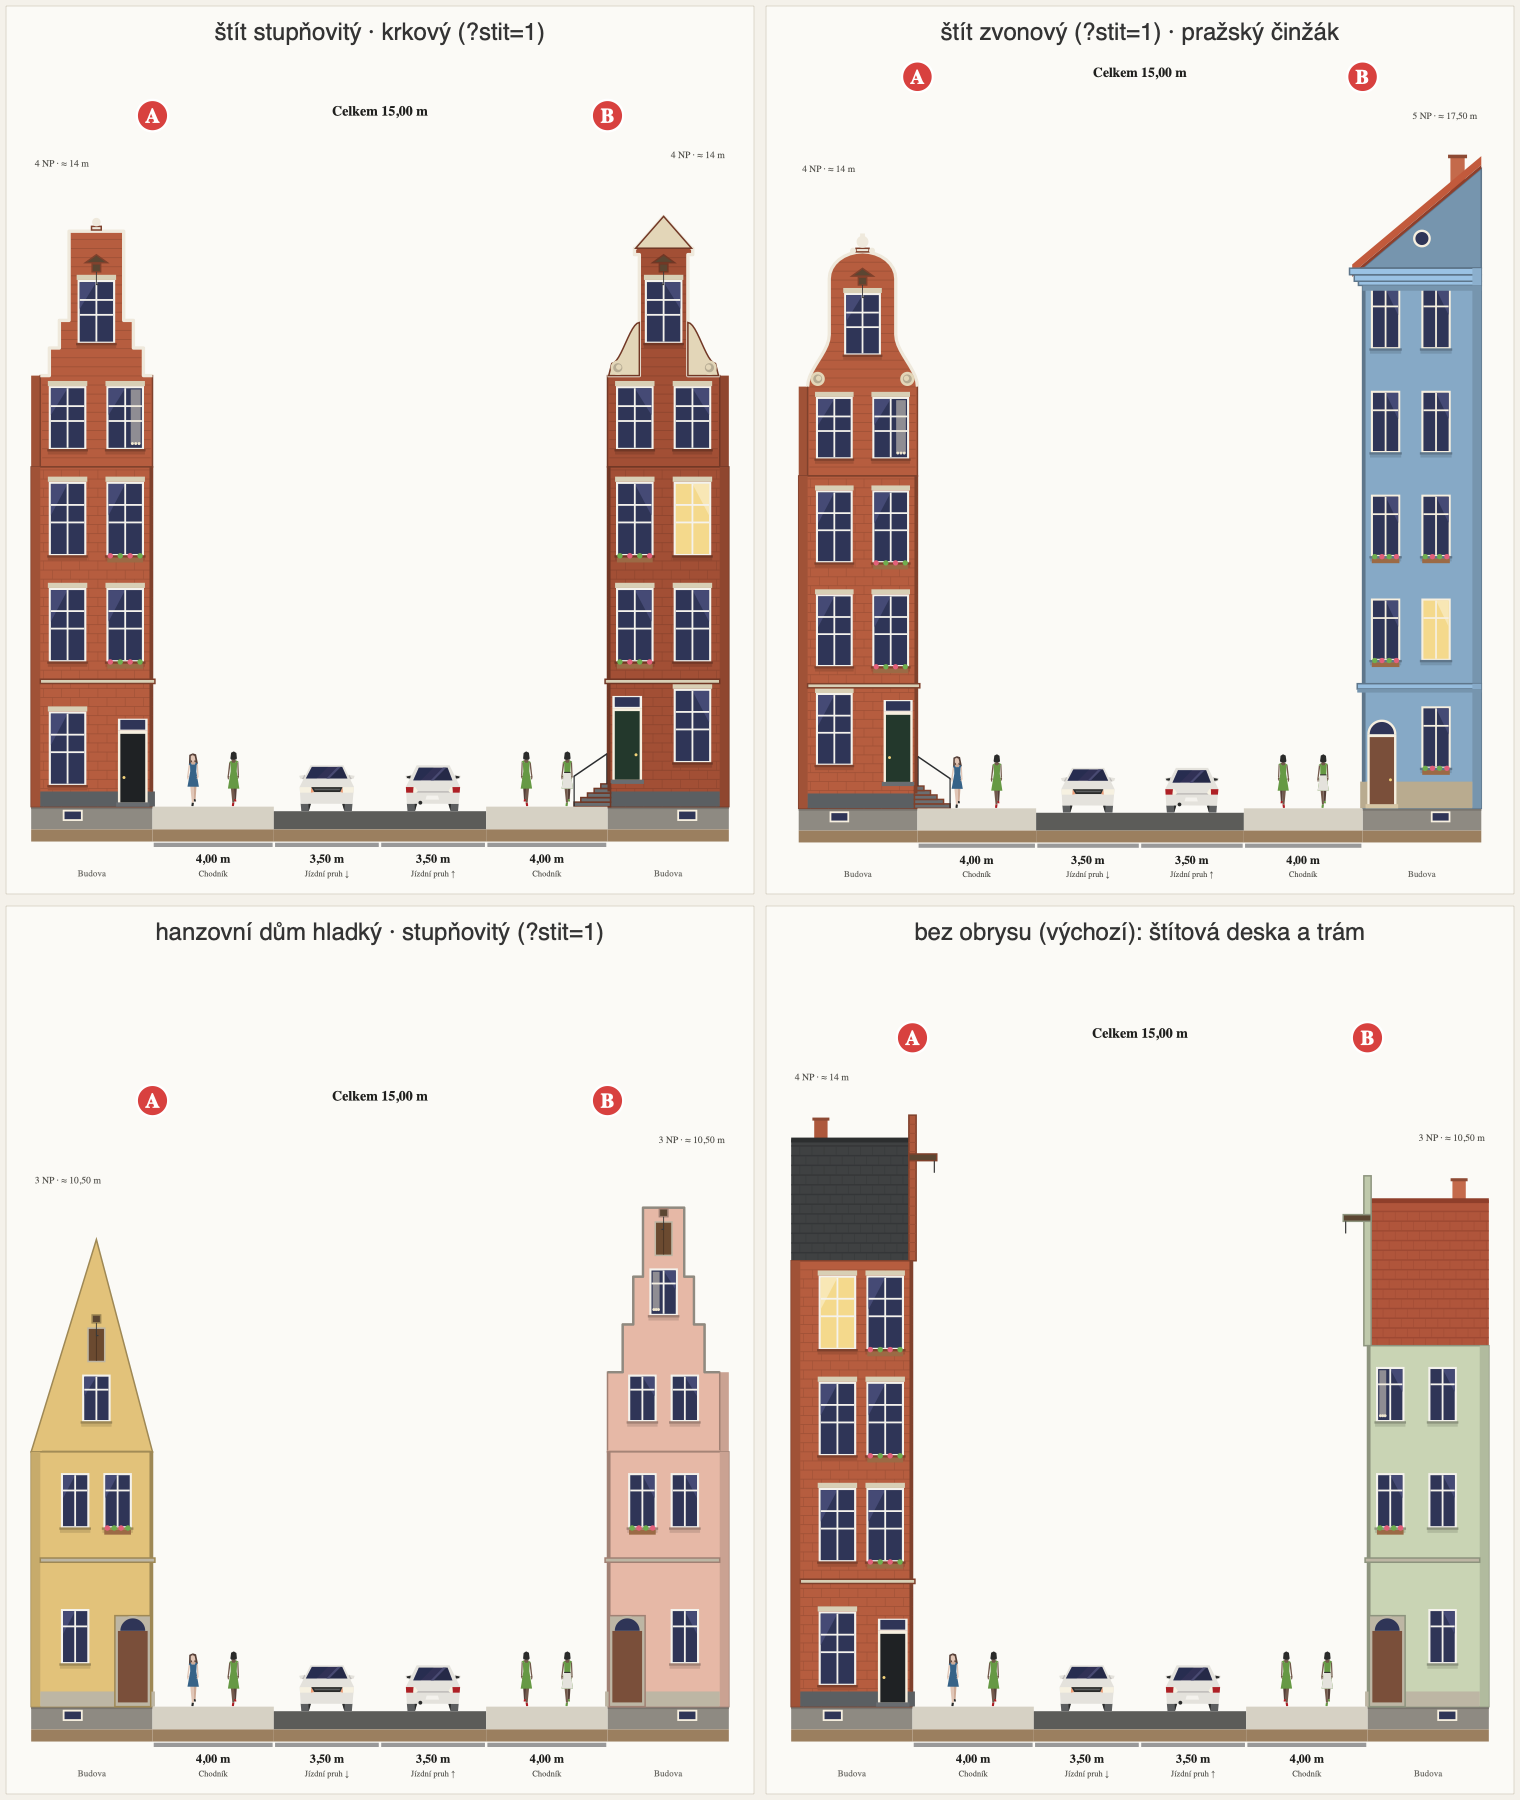
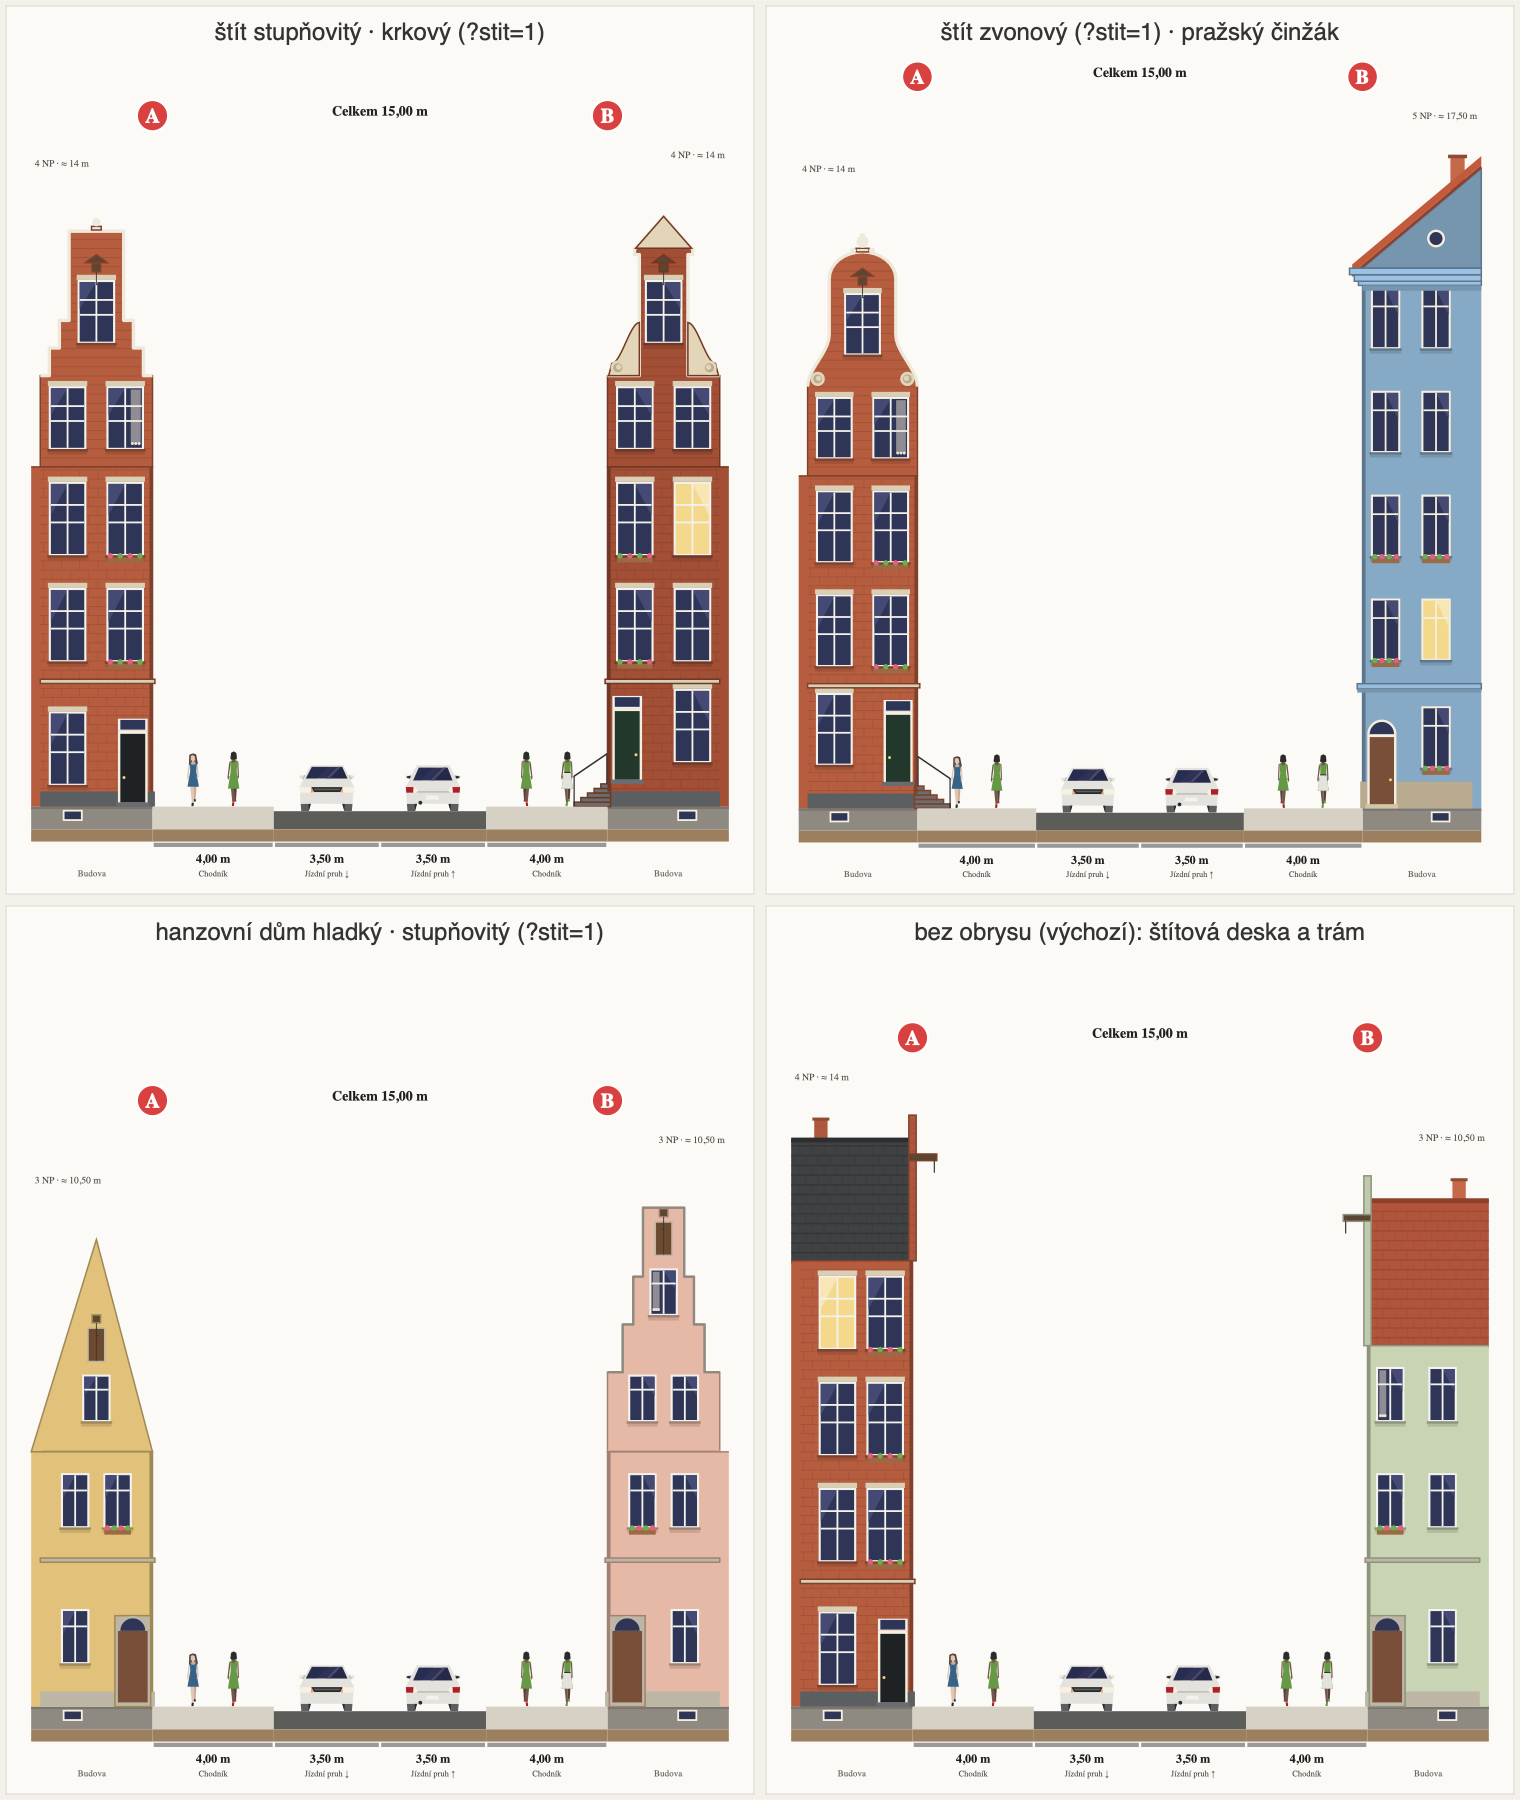
Houses: no darker strip and no outline at the cut, the wall runs on past it (Bára 23. 11. 2026: the outer wall looked massive)

diff --git a/pilot/public/profile.js b/pilot/public/profile.js
@@ -1049,9 +1049,8 @@ function drawPrahaBuilding(g, x, side, surface, info, chosen) {
       pts = [...left, ...ped, ...right];
       pedestal = ped;
     }
-    // The return of the gable at the cut, a shade darker, then the gable itself.
-    if (form === "plain") pts[pts.length - 1] = [EDGE, top]; // its foot over the whole wall, the cut's strip too
-    else box(EDGE - 30, EDGE, top, Math.max(...left.filter(([d]) => d < 0.01).map(([, z]) => z)), shade);
+    // The gable itself (no darker return at the cut: the house runs on past it).
+    if (form === "plain") pts[pts.length - 1] = [EDGE, top]; // its foot over the whole wall
     poly(pts, wall, outline);
     // How wide the gable is at height z (the run of the outline holding the axis).
     const hwAt = (z) => {
@@ -1348,8 +1347,9 @@ function drawPrahaBuilding(g, x, side, surface, info, chosen) {
     box(dCellar + 6, dCellar + 60, -cellar * 0.55, -cellar * 0.55 + 25, GLASS);
   }
   el("rect", { x, y: GROUND + 60, width: EDGE, height: 40, fill: "#9b7f5f" }, g);
-  box(0, EDGE, 0, top, wall, outline);
-  box(EDGE - 30, EDGE, 0, top, shade); // the wall turns away at the cut
+  // The wall runs on past the cut (Bára 23. 11. 2026): no strip and no outline there, only along the street and the top.
+  box(0, EDGE, 0, top, wall);
+  el("path", { d: `M${X(EDGE)} ${surface - top} L${X(0)} ${surface - top} L${X(0)} ${surface}`, fill: "none", ...outline }, g);
   // The regional walls: brick courses, azulejo tiles, the ashlar of Malta and Cyprus, boards, Haussmann's rustication.
   if (brick) for (let z = 30, i = 0; z < top; z += 30, i++) { // brick courses with staggered joints (a bond, not boards)
     box(0, EDGE - 30, z - 1.2, z + 1.2, tint(wall, 0.86));
@@ -1442,7 +1442,7 @@ function drawPrahaBuilding(g, x, side, surface, info, chosen) {
       const gTop = z0 + h * (k ? 0.78 : 0.86);
       poly([[EDGE - 150, gTop], [EDGE - 100, gTop], [EDGE - 160, z0 + h * 0.12], [EDGE - 210, z0 + h * 0.12]], GLINT);
       for (let d = 8 + 120; d < EDGE - 48; d += 120) box(d - 3, d + 3, z0 + h * 0.12, gTop, FRAME);
-      if (k) { box(0, EDGE, z0 - 4, z0 + h * 0.08, accent); box(EDGE - 30, EDGE, z0 - 4, z0 + h * 0.08, tint(accent, 0.9)); } // spandrel band
+      if (k) { box(0, EDGE, z0 - 4, z0 + h * 0.08, accent); } // spandrel band
     }
     box(14, 116, 0, 262, FRAME); // glazed entrance with a flat canopy
     box(22, 108, 0, 254, GLASS);
@@ -1937,20 +1937,17 @@ function drawPrahaBuilding(g, x, side, surface, info, chosen) {
     box(-12, EDGE, top - 62, top - 48, corn, outline);
     box(-30, EDGE, top - 48, top - 26, corn, outline);
     box(-52, EDGE, top - 26, top, corn, outline);
-    box(EDGE - 30, EDGE, top - 62, top, tint(corn, 0.9));
     box(0, EDGE, top - 104, top - 90, shade);
   } else if (kind === "typovy") {
     box(0, EDGE, top - 30, top, tint(wall, 0.92)); // a plain eaves band, nothing more
   } else if (style === "sikma") {
     box(-18, EDGE, f.ground - 18, f.ground, trim, outline); // string course
-    box(EDGE - 30, EDGE, f.ground - 18, f.ground, tint(trim, 0.9));
     box(-18, EDGE, f.ground - 30, f.ground - 18, shade);
     // Main cornice in three steps, the wall's colour lightened, with its shadow on the wall.
     const corn = tint(wall, 1.15);
     box(-14, EDGE, top - 58, top - 44, corn, outline);
     box(-28, EDGE, top - 44, top - 22, corn, outline);
     box(-44, EDGE, top - 22, top, corn, outline);
-    box(EDGE - 30, EDGE, top - 58, top, tint(corn, 0.9));
     box(0, EDGE, top - 76, top - 58, shade);
   } else if (style === "moderni") {
     for (let k = 1; k < full; k++) { // balconies: a thin white slab, a frameless glass balustrade
